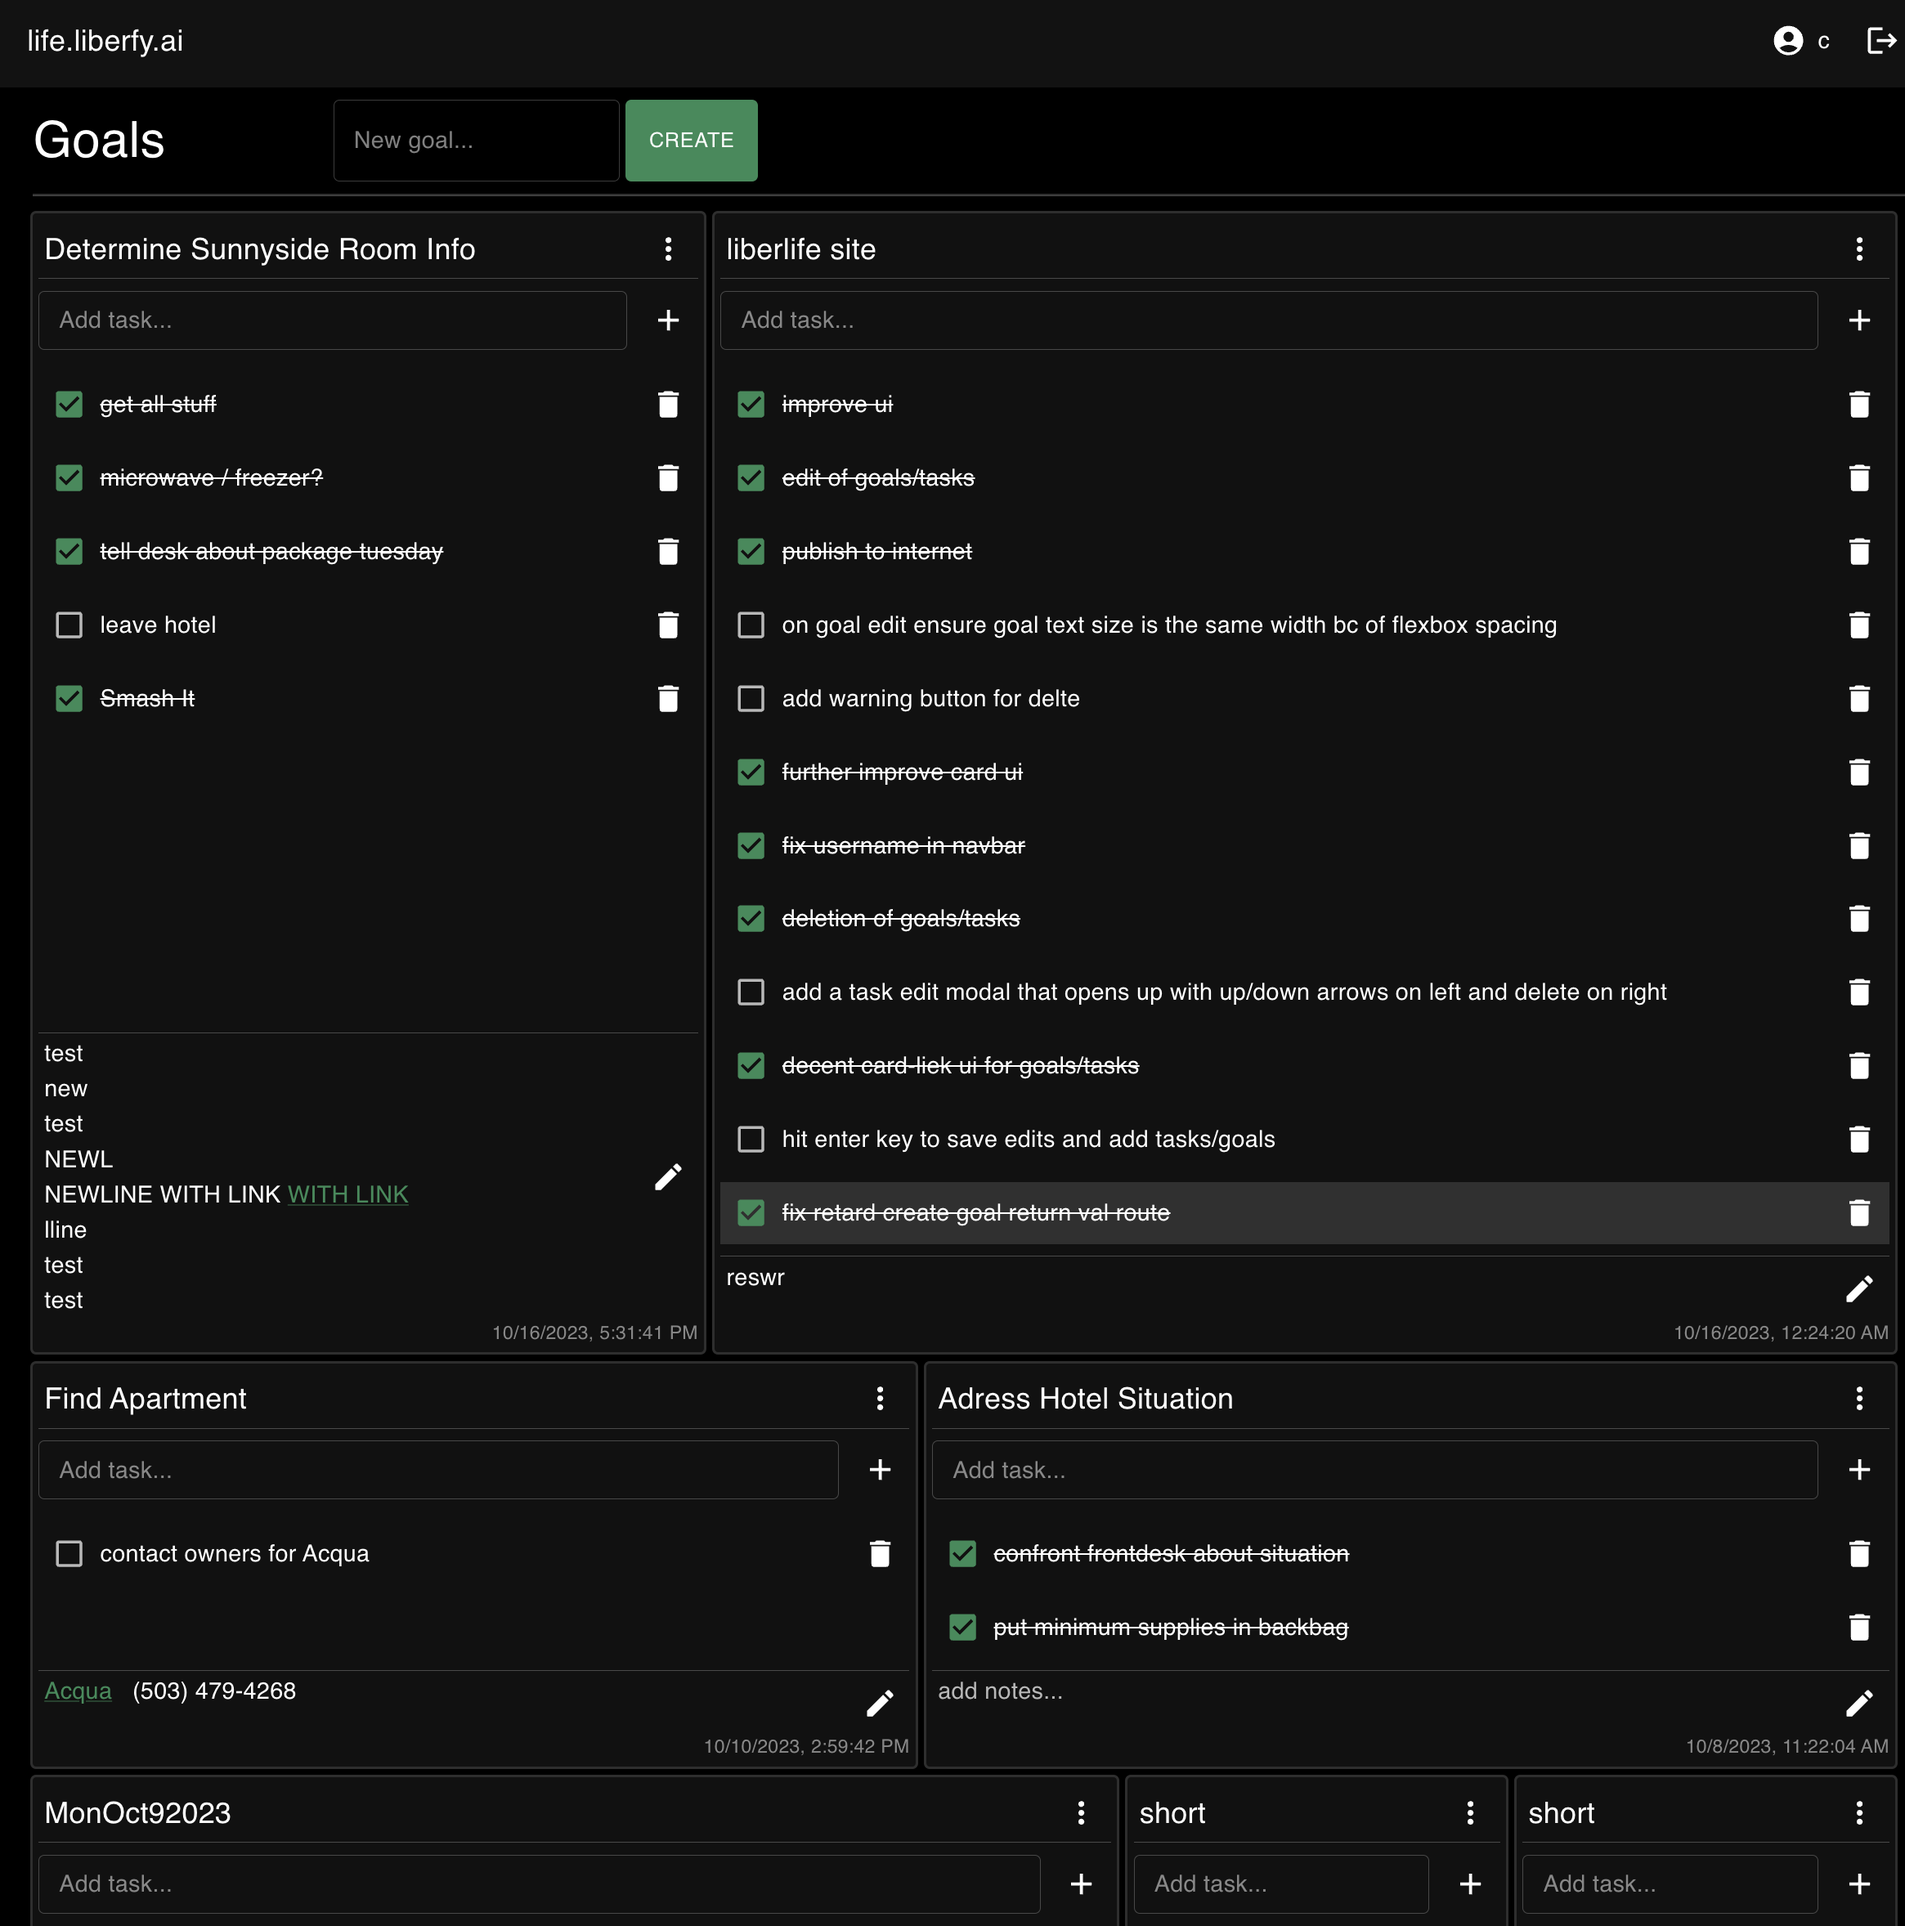
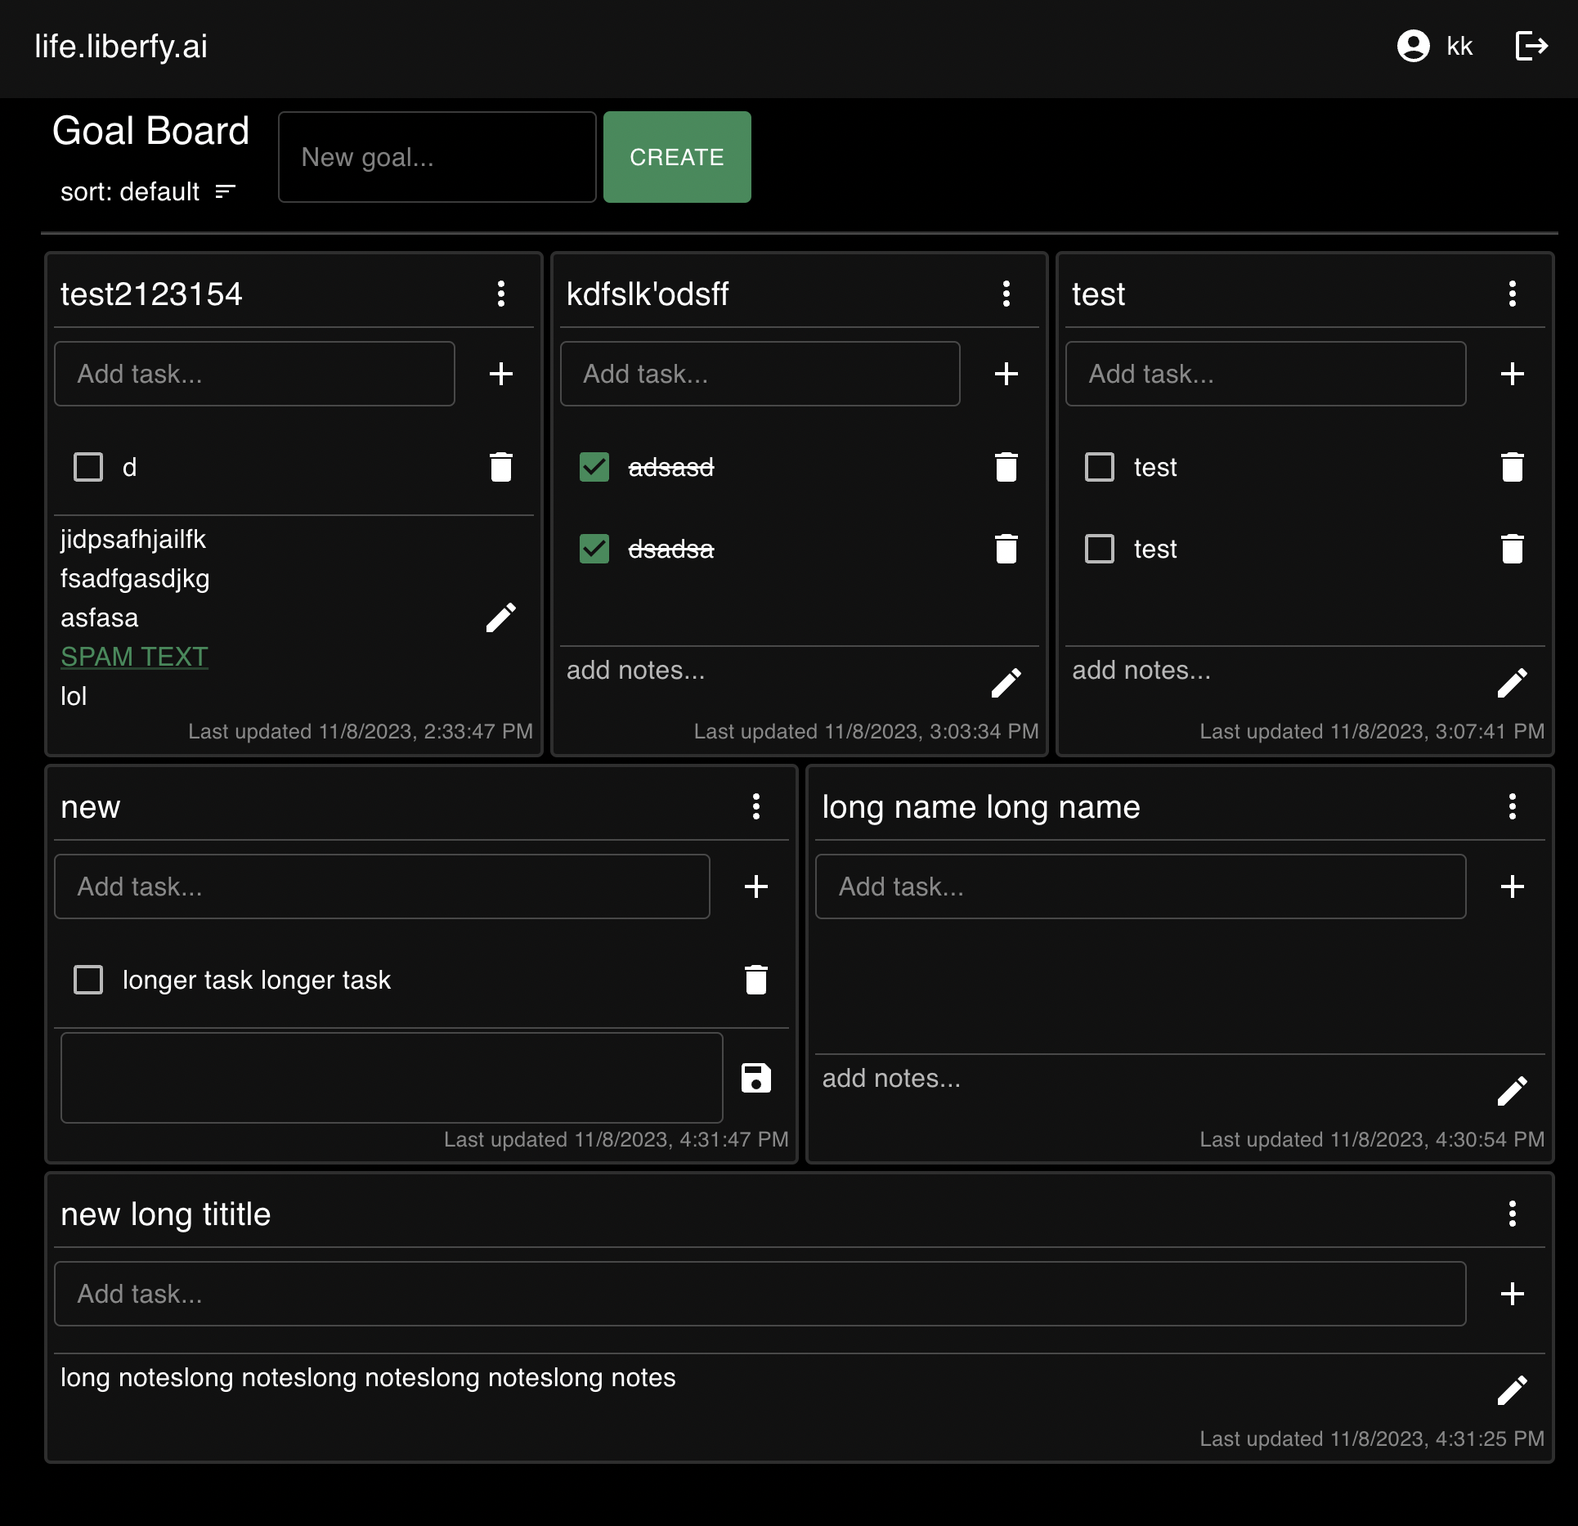
added frontend sorting

Changed region(s): [[0.0, 0.0, 1.0, 1.0], [0.8705, 0.0, 0.9948, 0.0311], [0.2487, 0.6838, 0.3731, 0.7149]]

diff --git a/frontend/src/pages/GoalsPage/GoalBoard.tsx b/frontend/src/pages/GoalsPage/GoalBoard.tsx
@@ -1,5 +1,18 @@
-import React from "react";
-import { Box, Typography, TextField, Button, Divider } from "@mui/material";
+import React, { useState, useEffect, useMemo } from "react";
+import {
+  Box,
+  Typography,
+  TextField,
+  Button,
+  Divider,
+  IconButton,
+  Select,
+  MenuItem,
+} from "@mui/material";
+import ArrowUpwardIcon from "@mui/icons-material/ArrowUpward";
+import ArrowDownwardIcon from "@mui/icons-material/ArrowDownward";
+import SortIcon from "@mui/icons-material/Sort";
+import { goalDateHelper } from "./helpers";
 import { GoalOut } from "../../api";
 import { GoalItem } from "./GoalItem";
 import apios from "../../apios";
@@ -24,6 +37,9 @@ const GoalBoard: React.FC<GoalBoardProps> = ({
   newGoalText,
   setNewGoalText,
 }) => {
+  const [sortOrder, setSortOrder] = useState<string>(
+    localStorage.getItem("sortOrder") || "default"
+  );
   const handleAddGoal = async () => {
     if (newGoalText.trim()) {
       const response = await apios.post("/goals", { text: newGoalText });
@@ -61,6 +77,48 @@ const GoalBoard: React.FC<GoalBoardProps> = ({
     return actionDeleteTask(goals, setGoals, goalId, taskId);
   };
 
+  // Function to perform the sorting based on the sortOrder state
+  const sortGoalsFunction = () => {
+    switch (sortOrder) {
+      case "updated asc":
+        return [...goals].sort((a, b) => goalDateHelper(a) - goalDateHelper(b));
+      case "updated desc":
+        return [...goals].sort((a, b) => goalDateHelper(b) - goalDateHelper(a));
+      default:
+        return goals; // return the original array if 'default' is selected
+    }
+  };
+
+  const sortedGoals = sortGoalsFunction();
+
+  // Handler to cycle through the sort orders
+  const handleSortClick = () => {
+    setSortOrder((prevSortOrder) => {
+      switch (prevSortOrder) {
+        case "default":
+          localStorage.setItem("sortOrder", "updated asc");
+          return "updated asc";
+        case "updated asc":
+          localStorage.setItem("sortOrder", "updated desc");
+          return "updated desc";
+        case "updated desc":
+          localStorage.setItem("sortOrder", "default");
+          return "default";
+        default:
+          localStorage.setItem("sortOrder", "default");
+          return "default";
+      }
+    });
+  };
+
+  // Determine which icon to show
+  const SortIconComponent =
+    sortOrder === "updated asc"
+      ? ArrowUpwardIcon
+      : sortOrder === "updated desc"
+      ? ArrowDownwardIcon
+      : SortIcon;
+
   return (
     <Box
       sx={{
@@ -76,17 +134,66 @@ const GoalBoard: React.FC<GoalBoardProps> = ({
           p: 0.5,
         }}
       >
-        <Typography
-          variant="h5"
+        <Box
           sx={{
-            flexGrow: 1,
-            maxWidth: "200px",
             display: "flex",
             alignItems: "center",
+            justifyContent: "space-between",
+            flexDirection: "column",
+            p: 0,
+            m: 0,
+            pl: 0.5,
+            pr: 0.5,
           }}
         >
-          Goal Board
-        </Typography>
+          <Typography
+            variant="h5"
+            sx={{
+              flexGrow: 1,
+              minWidth: "8rem",
+              display: "flex",
+              alignItems: "center",
+            }}
+          >
+            Goal Board
+          </Typography>
+
+          <Box
+            className="sort-container"
+            sx={{
+              display: "flex",
+              flexDirection: "row",
+              m: 0,
+              p: 0,
+              minWidth: "100px",
+            }}
+          >
+            <IconButton onClick={handleSortClick} aria-label="sort goals">
+              <Typography
+                variant="h6"
+                sx={{
+                  flexGrow: 1,
+                  display: "flex",
+                  alignItems: "center",
+                  fontSize: "1rem",
+                  minWidth: "2rem",
+                  m: 0,
+                  p: 0,
+                }}
+              >
+                sort: {sortOrder.split(" ")[0]}
+              </Typography>
+              <SortIconComponent
+                sx={{
+                  fontSize: "1rem",
+                  m: 0,
+                  p: 0,
+                  minWidth: "2rem",
+                }}
+              />
+            </IconButton>
+          </Box>
+        </Box>
 
         <TextField
           variant="outlined"
@@ -124,6 +231,7 @@ const GoalBoard: React.FC<GoalBoardProps> = ({
           mr: 0.5,
         }}
       />
+
       <Box
         sx={{
           display: "flex",
@@ -133,7 +241,7 @@ const GoalBoard: React.FC<GoalBoardProps> = ({
           m: 0.5,
         }}
       >
-        {goals.map((goal) => (
+        {sortedGoals.map((goal) => (
           <GoalItem
             key={goal.id}
             goal={goal}

diff --git a/frontend/src/pages/GoalsPage/actions.ts b/frontend/src/pages/GoalsPage/actions.ts
@@ -1,6 +1,7 @@
 import React from "react";
 import apios from "../../apios";
 import { GoalOut, GoalTaskOut } from "../../api";
+import { goalDateHelper } from "./helpers";
 
 export const actionUpdateGoal = async (
   setGoals: React.Dispatch<React.SetStateAction<GoalOut[]>>,
@@ -164,5 +165,19 @@ export const actionTaskCompletion = async (
     }
   } catch (error) {
     console.error("Error updating task completion status:", error);
+  }
+};
+
+
+
+// Function to perform the sorting based on the sortOrder state
+const sortGoalsFunction = (goals: GoalOut[], sortOrder: string) => {
+  switch (sortOrder) {
+    case 'updated asc':
+      return [...goals].sort((a, b) => goalDateHelper(a) - goalDateHelper(b));
+    case 'updated desc':
+      return [...goals].sort((a, b) => goalDateHelper(b) - goalDateHelper(a));
+    default:
+      return goals; // return the original array if 'default' is selected
   }
 };

diff --git a/frontend/src/pages/GoalsPage/helpers.ts b/frontend/src/pages/GoalsPage/helpers.ts
@@ -1,0 +1,12 @@
+import { GoalOut } from "../../api";
+
+export const goalDateHelper = (goal: GoalOut): number => {
+  if (goal && goal.updated_on) {
+    return new Date(goal.updated_on).getTime();
+  } else {
+    if (goal && goal.created_on) {
+      return new Date(goal.created_on).getTime();
+    }
+    return 0;
+  }
+};
